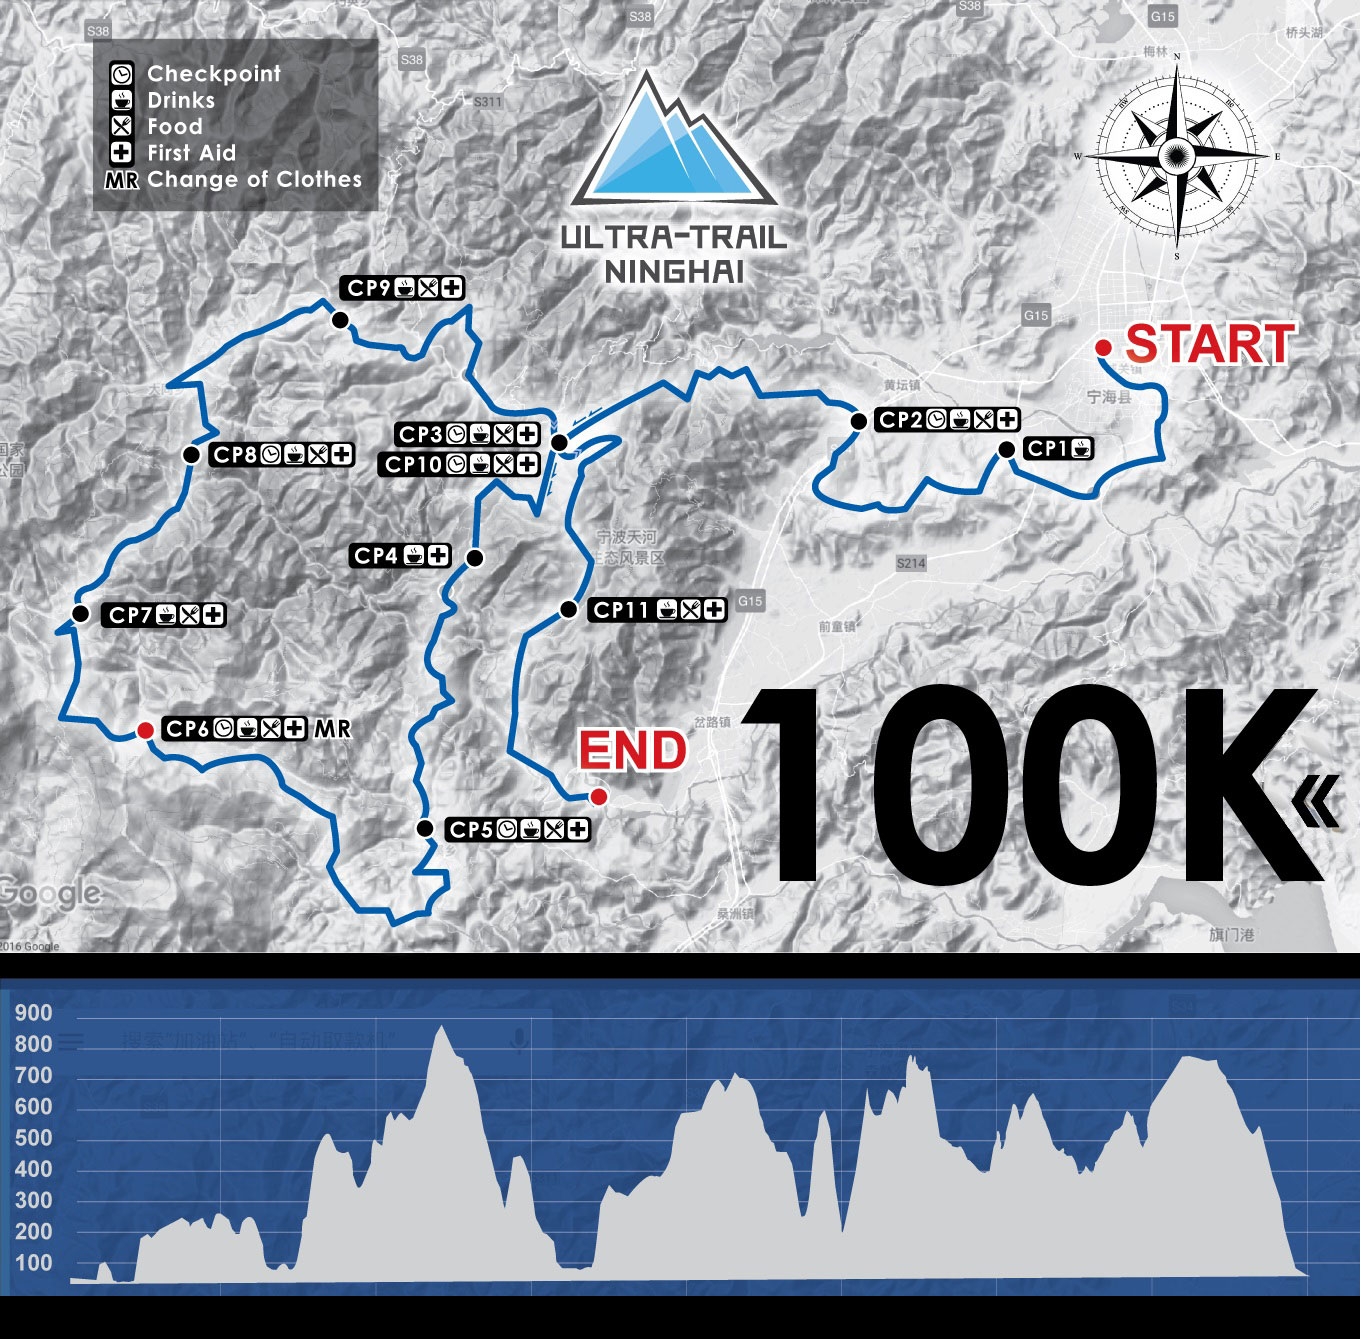
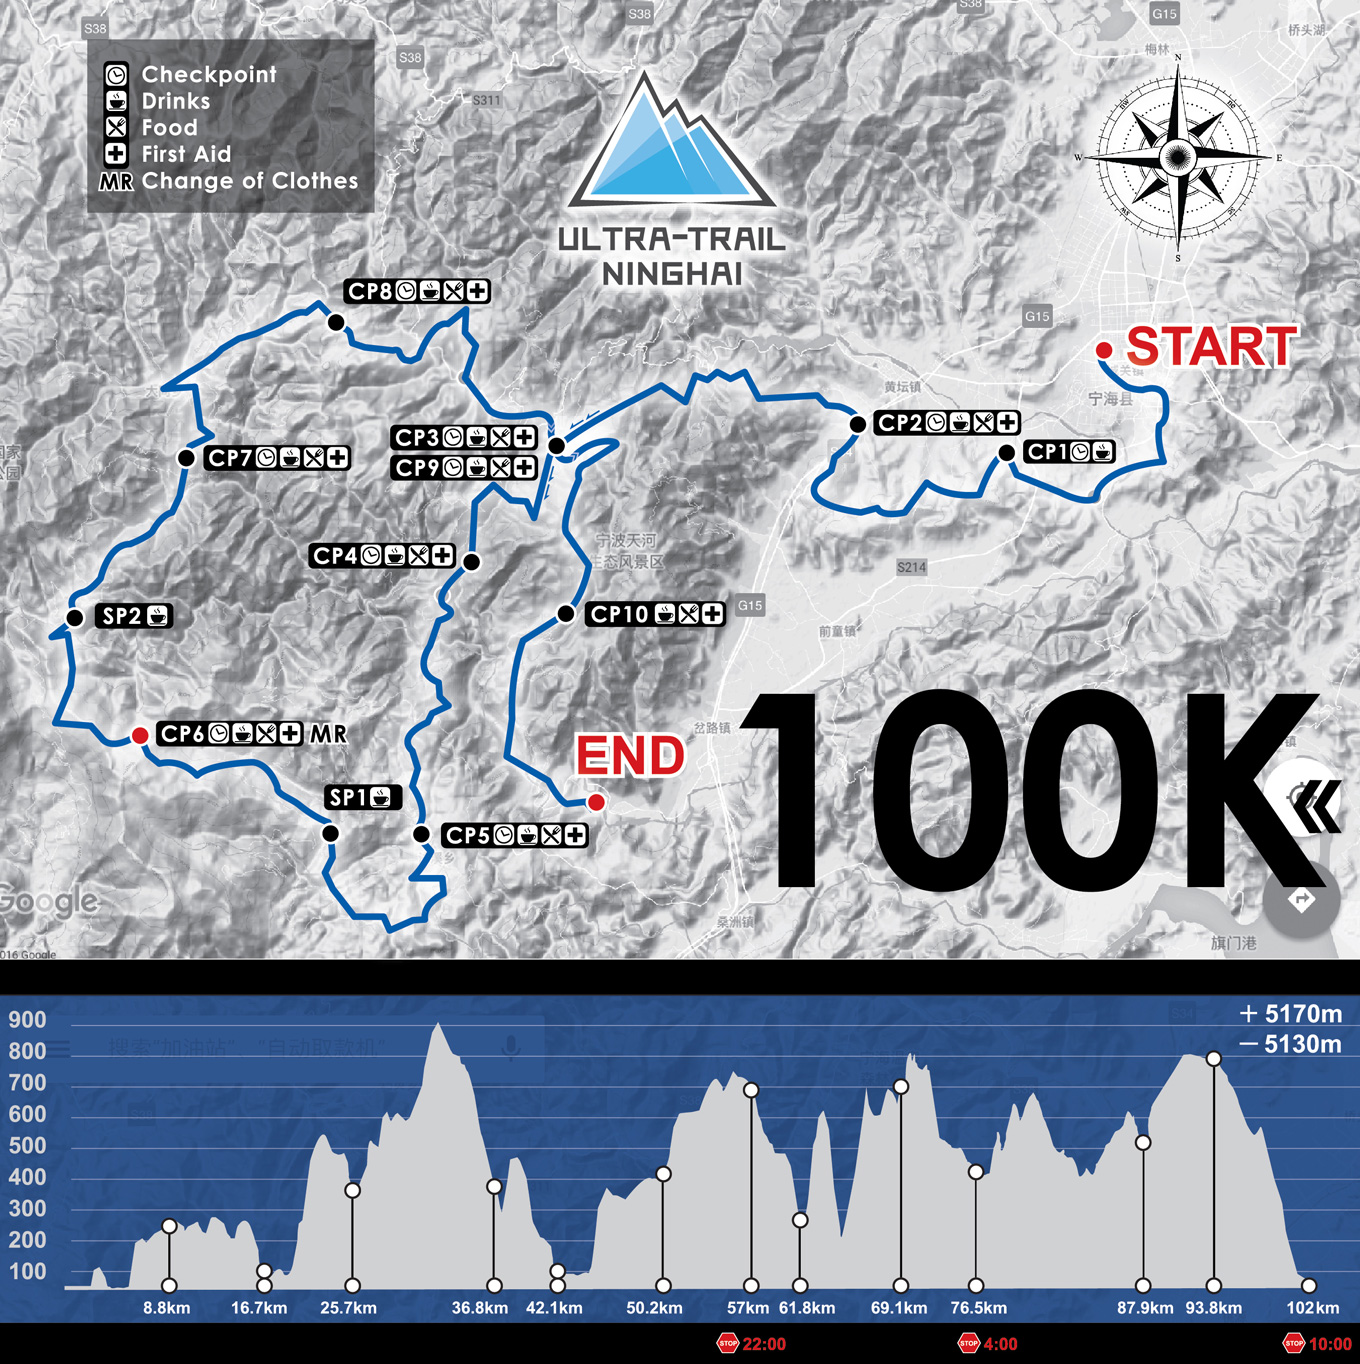
Updating course map

diff --git a/src/pages/ultra-trail-course.html b/src/pages/ultra-trail-course.html
@@ -1,15 +1,29 @@
-<div class="clearfix"><h3 class="pull-left page-title">赛道 COURSE</h3></div>
+<div class="clearfix">
+    <h3 class="pull-left page-title">赛道 COURSE</h3>
+</div>
 <div class="page-detail container-fluid">
-  <div class="row">
-    <div class="col-xs-12 col-md-6">
-      <p><100km><br/>D+ 4800m | D- 5000m<br/>Start Time: 6:00 am | Limited Time: 28 hours</p>
-      <p><a target="_blank" href="/download.php?f=ULTRA-TRAIL_NINGHAI_map_100k" class="btn btn-primary btn-xs">Download</a></p>
-      <p><img src="/assets/ULTRA-TRAIL_NINGHAI_map_100k.jpg" class="img-responsive" alt=""></p>
+    <div class="row">
+        <div class="col-xs-12 col-md-6">
+            <p>&lt;100km&gt;
+                <br/>Group: Ultra-Trail 100
+                <br/>Distance: 102km
+                <br>Ascent: 5170m
+                <br>Descent: 5130m
+                <br>Cut-off: 28 hours
+            </p>
+            <p><a target="_blank" href="/download.php?f=ULTRA-TRAIL_NINGHAI_map_100k" class="btn btn-primary btn-xs">Download</a></p>
+            <p><img src="/assets/ULTRA-TRAIL_NINGHAI_map_100k.jpg?1" class="img-responsive" alt=""></p>
+        </div>
+        <div class="col-xs-12 col-md-6">
+            <p>&lt;42km&gt;
+                <br/>Group: Trail Marathon
+                <br/>Distance: 42km
+                <br>Ascent: 2260m
+                <br>Descent: 2200m
+                <br>Cut-off: 10 hours
+            </p>
+            <p><a target="_blank" href="/download.php?f=ULTRA-TRAIL_NINGHAI_map_42k" class="btn btn-primary btn-xs">Download</a></p>
+            <p><img src="/assets/ULTRA-TRAIL_NINGHAI_map_42k.jpg?1" class="img-responsive" alt=""></p>
+        </div>
     </div>
-    <div class="col-xs-12 col-md-6">
-      <p><42km><br/>D+ 1900m | D- 1800m<br/>Start Time: 6:00 am | Limited Time:  10 hours</p>
-      <p><a target="_blank" href="/download.php?f=ULTRA-TRAIL_NINGHAI_map_42k" class="btn btn-primary btn-xs">Download</a></p>
-      <p><img src="/assets/ULTRA-TRAIL_NINGHAI_map_42k.jpg" class="img-responsive" alt=""></p>
-    </div>
-  </div>
 </div>

diff --git a/src/pages/ultra-trail-regulation.html b/src/pages/ultra-trail-regulation.html
@@ -150,14 +150,14 @@
         </li>
       </ol>
       <p><b>补给站</b></p>
-      <p><img src="/assets/ULTRA-TRAIL_NINGHAI_map_100k.jpg" class="img-responsive" alt=""></p>
+      <p><img src="/assets/ULTRA-TRAIL_NINGHAI_map_100k.jpg?1" class="img-responsive" alt=""></p>
       <p>起点、补给站、终点将有固定卫生间或临时卫生间供选手使用。</p>
       <p><b>检查点和关门时间</b></p>
       <ul>
         <li>42公里关门时间为10个小时 (10月15日下午4点)</li>
         <li>100公里关门时间为28个小时 (10月16日上午10点)</li>
       </ul>
-      <p><img src="/assets/ULTRA-TRAIL_NINGHAI_map_42k.jpg" class="img-responsive" alt=""></p>
+      <p><img src="/assets/ULTRA-TRAIL_NINGHAI_map_42k.jpg?1" class="img-responsive" alt=""></p>
       <p>提醒：设置了关门时间的检查点将以进站时间为准</p>
       <p><b>安全</b></p>
       <ol>
